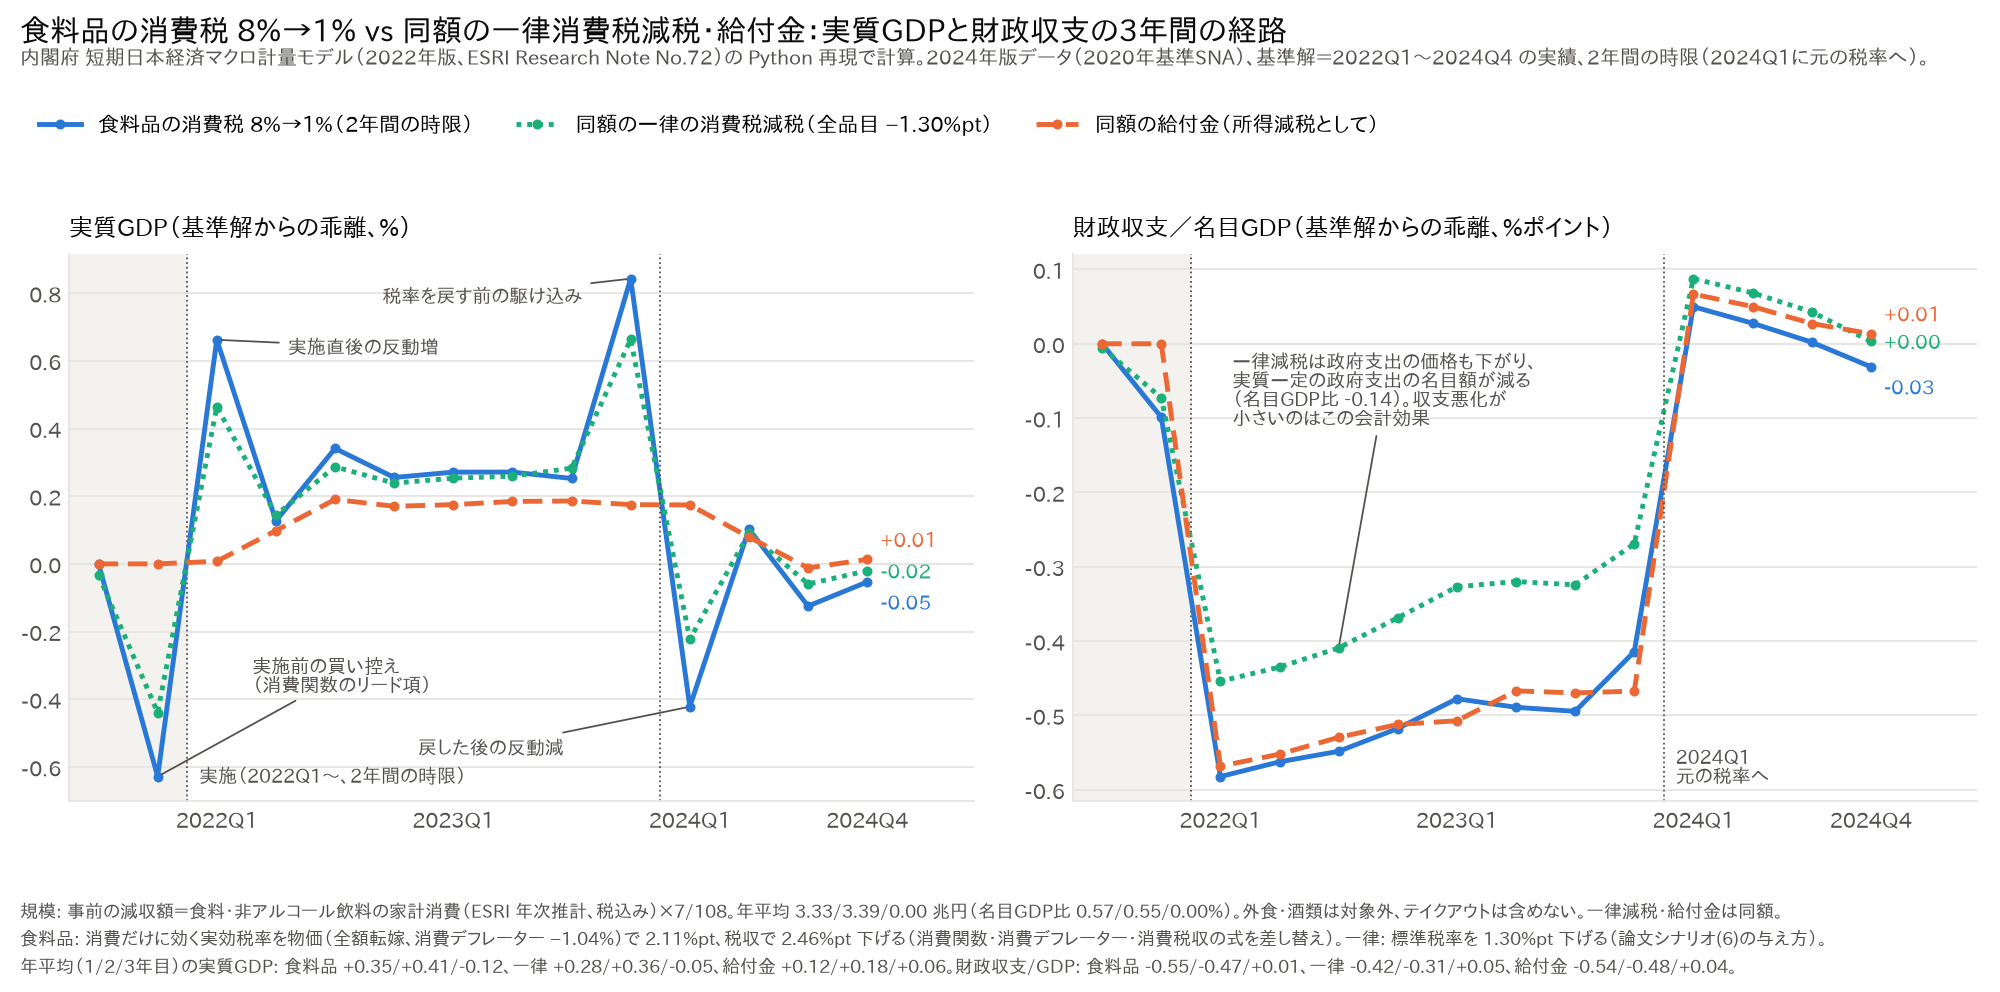
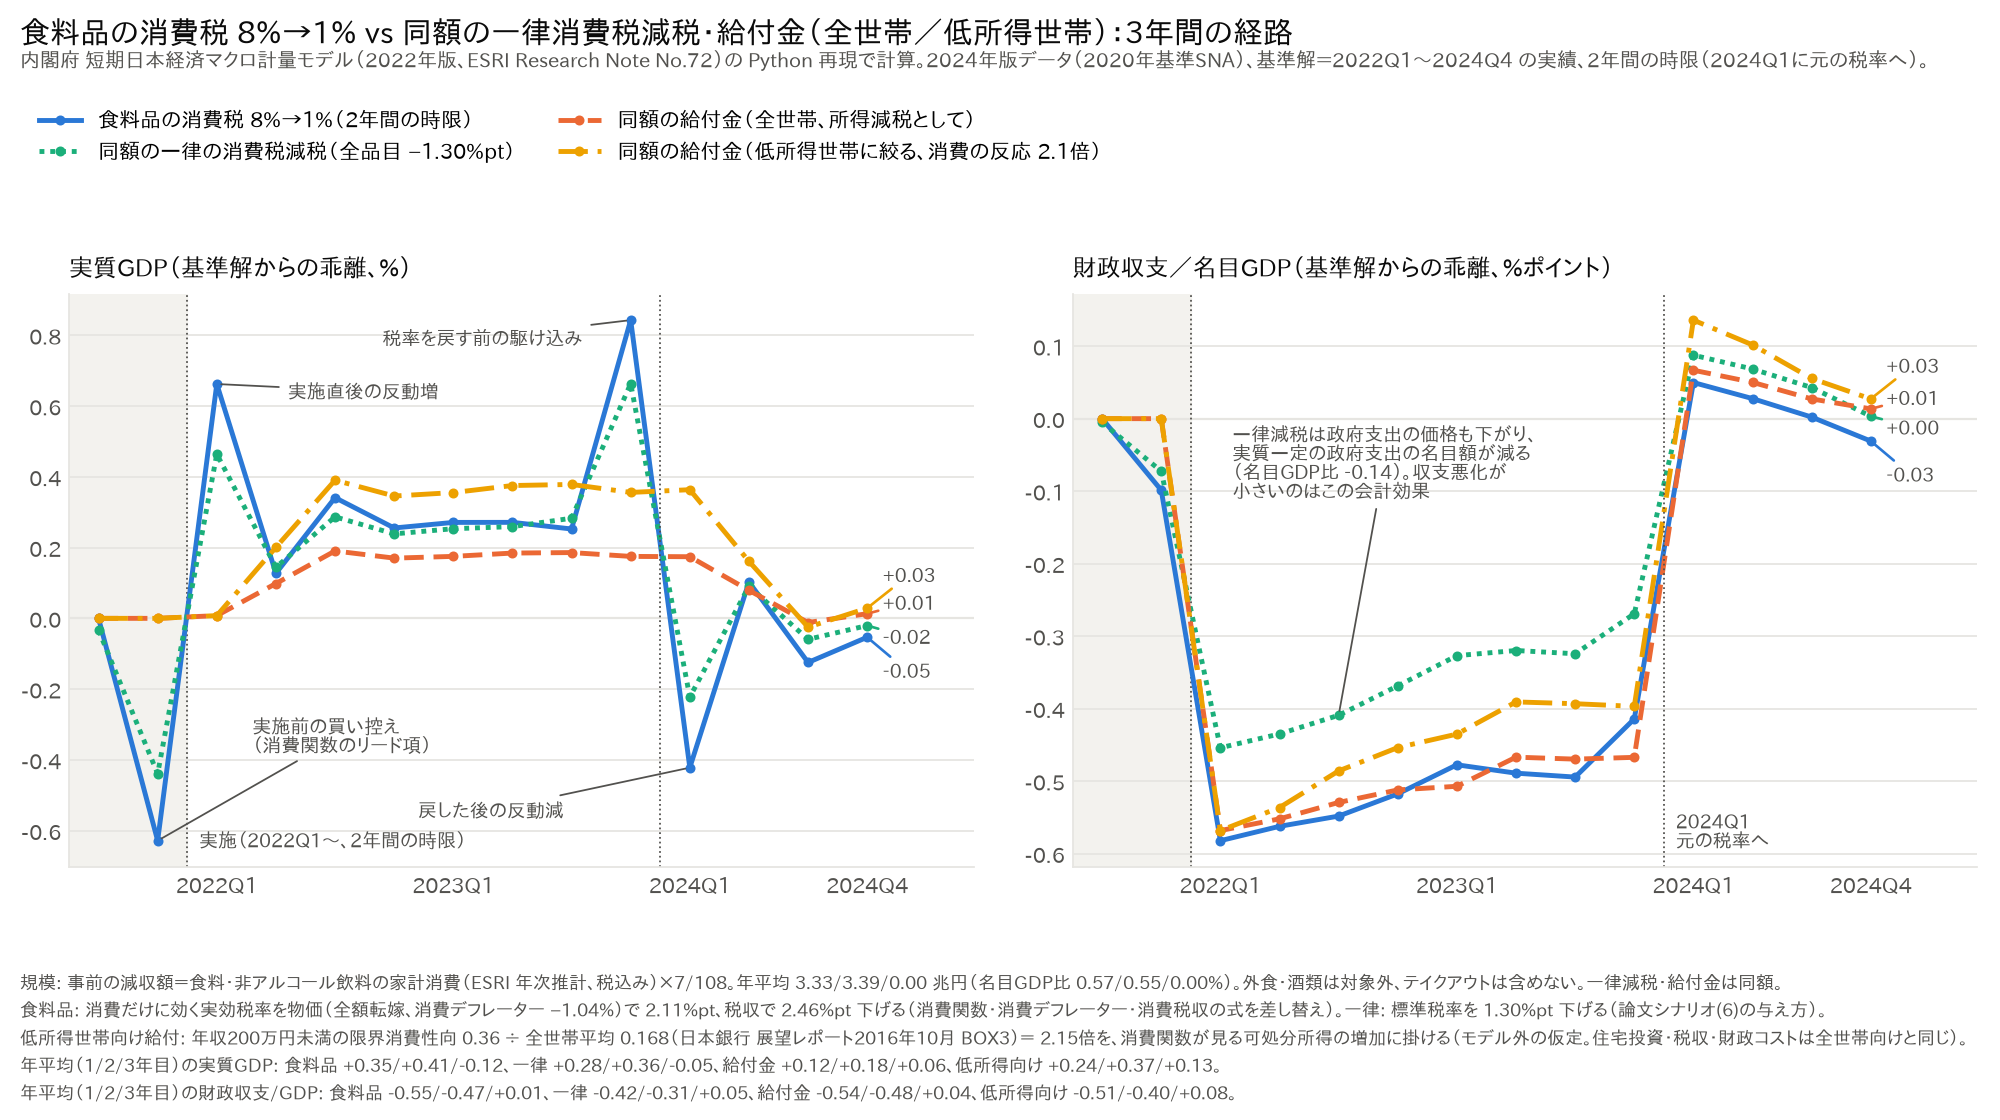
食料品の消費税減税シナリオに、低所得世帯に絞った同額の給付金を追加
- 給付額・財政コストは全世帯向けと同じで、消費関数が見る可処分所得の増加だけを
  年収200万円未満の限界消費性向 ÷ 全世帯平均（日銀 展望レポート2016年10月 BOX3、2.15倍）にする
  （消費関数の差し替え式に上乗せ変数 XYDV を追加）
- 4本目の線（パレット4番目の黄）を追加。黄・緑は白地のコントラストが低いため、端の数値は文字色にし線の種類でも区別
- 既存3シナリオの結果は変わらない。README の表に列を追加

Claude-Session: https://claude.ai/code/session_013ePjEtRrzquBdW4qa3Y9LD

diff --git a/README.md b/README.md
@@ -209,23 +209,24 @@ ESRI_VINTAGE=2024 python src/simulate.py                                # 論文
 - 減収額: ESRI 2024年度年次推計「家計の目的別最終消費支出」の食料・非アルコール飲料（税込み）×7/108。年 3.3〜3.5兆円（名目GDPの約0.56%）。外食・酒類は対象外、テイクアウトは SNA で外食に入るため含めない。
 - モデルの消費税は標準税率1本なので、消費だけに効く実効税率を追加し、消費関数・消費デフレーター・消費税収の式だけを差し替える。物価は食料品に全額転嫁（消費デフレーター −1.04%）、税収は事前の減収額に合うよう、それぞれ別に合わせる。
 - 給付金は各四半期の事前の減収額と同額の個人所得税減税。
+- 低所得世帯に絞った給付は、給付額・財政コストは全世帯向けと同じで、消費関数が見る可処分所得の増加だけを2.15倍にする。倍率は年収200万円未満の限界消費性向 0.36 を全世帯の平均 0.168 で割った値（日本銀行 展望レポート2016年10月 BOX3 の図表の読み取り値と2014年の世帯数分布）。モデルの消費関数は家計全体で1本なので、これはモデル外の仮定。
 - 一律の消費税減税は標準税率を下げる（論文シナリオ(6)と同じ与え方。住宅・設備・政府支出にも効く）。引下げ幅は事前の減収が食料品減税と同額になるよう決める（1.30%pt、4.4兆円では 1.66%pt）。
 
-| 年平均 | 実質GDP（%）食料品減税 / 一律減税 / 給付金 | 財政収支/名目GDP（%pt）食料品減税 / 一律減税 / 給付金 |
+| 年平均 | 実質GDP（%）食料品減税 / 一律減税 / 給付金 / 低所得向け給付 | 財政収支/名目GDP（%pt）食料品減税 / 一律減税 / 給付金 / 低所得向け給付 |
 |---|---|---|
-| 1年目（2022） | +0.35 / +0.28 / +0.12 | −0.55 / −0.42 / −0.54 |
-| 2年目（2023） | +0.26 / +0.25 / +0.18 | −0.49 / −0.33 / −0.48 |
-| 3年目（2024） | +0.22 / +0.23 / +0.18 | −0.52 / −0.36 / −0.49 |
+| 1年目（2022） | +0.35 / +0.28 / +0.12 / +0.24 | −0.55 / −0.42 / −0.54 / −0.51 |
+| 2年目（2023） | +0.26 / +0.25 / +0.18 / +0.37 | −0.49 / −0.33 / −0.48 / −0.40 |
+| 3年目（2024） | +0.22 / +0.23 / +0.18 / +0.36 | −0.52 / −0.36 / −0.49 / −0.42 |
 
 ![食料品の消費税 8%→1% vs 同額の給付金](output/food_tax_cut_vs_benefit.png)
 
 報道や試算で使われる減収 4.4兆円（食料品ゼロ税率の約5兆円×7/8。軽減税率の対象全体と2026年ごろの物価水準に相当）に合わせる場合は `--loss-tn 4.4`。この場合は、事前の減収の3年平均が4.4兆円（基準解の名目GDP比 約0.72%）になるよう税率の引下げ幅を決める。
 
-| 年平均（減収4.4兆円） | 実質GDP（%）食料品減税 / 一律減税 / 給付金 | 財政収支/名目GDP（%pt）食料品減税 / 一律減税 / 給付金 |
+| 年平均（減収4.4兆円） | 実質GDP（%）食料品減税 / 一律減税 / 給付金 / 低所得向け給付 | 財政収支/名目GDP（%pt）食料品減税 / 一律減税 / 給付金 / 低所得向け給付 |
 |---|---|---|
-| 1年目（2022） | +0.45 / +0.36 / +0.15 | −0.71 / −0.53 / −0.70 |
-| 2年目（2023） | +0.33 / +0.32 / +0.23 | −0.63 / −0.42 / −0.61 |
-| 3年目（2024） | +0.28 / +0.30 / +0.23 | −0.67 / −0.47 / −0.63 |
+| 1年目（2022） | +0.45 / +0.36 / +0.15 / +0.30 | −0.71 / −0.53 / −0.70 / −0.66 |
+| 2年目（2023） | +0.33 / +0.32 / +0.23 / +0.47 | −0.63 / −0.42 / −0.61 / −0.52 |
+| 3年目（2024） | +0.28 / +0.30 / +0.23 / +0.46 | −0.67 / −0.47 / −0.63 / −0.54 |
 
 一律減税の財政収支の悪化が小さいのは、政府消費・公共投資の価格も下がり、実質一定の政府支出の名目額が名目GDP比で約0.16〜0.19%pt 減る会計効果による（食料品減税・給付金ではほぼ0）。
 
@@ -233,11 +234,11 @@ ESRI_VINTAGE=2024 python src/simulate.py                                # 論文
 
 政府案（2027年4月から2年間）どおりの時限措置は `--years 2`（2024Q1 に元の税率に戻し、給付も2年で終える。減収は実施期間の平均で4.4兆円）。
 
-| 年平均（減収4.4兆円、2年時限） | 実質GDP（%）食料品減税 / 一律減税 / 給付金 | 財政収支/名目GDP（%pt）食料品減税 / 一律減税 / 給付金 |
+| 年平均（減収4.4兆円、2年時限） | 実質GDP（%）食料品減税 / 一律減税 / 給付金 / 低所得向け給付 | 財政収支/名目GDP（%pt）食料品減税 / 一律減税 / 給付金 / 低所得向け給付 |
 |---|---|---|
-| 1年目（2022） | +0.45 / +0.37 / +0.15 | −0.72 / −0.55 / −0.71 |
-| 2年目（2023） | +0.53 / +0.48 / +0.24 | −0.61 / −0.41 / −0.63 |
-| 3年目（2024、終了後） | −0.16 / −0.07 / +0.08 | +0.02 / +0.07 / +0.05 |
+| 1年目（2022） | +0.45 / +0.37 / +0.15 / +0.31 | −0.72 / −0.55 / −0.71 / −0.67 |
+| 2年目（2023） | +0.53 / +0.48 / +0.24 / +0.48 | −0.61 / −0.41 / −0.63 / −0.53 |
+| 3年目（2024、終了後） | −0.16 / −0.07 / +0.08 / +0.17 | +0.02 / +0.07 / +0.05 / +0.10 |
 
 2年目の終わりに税率を戻す前の駆け込み、3年目の初めに反動減が出る。
 
